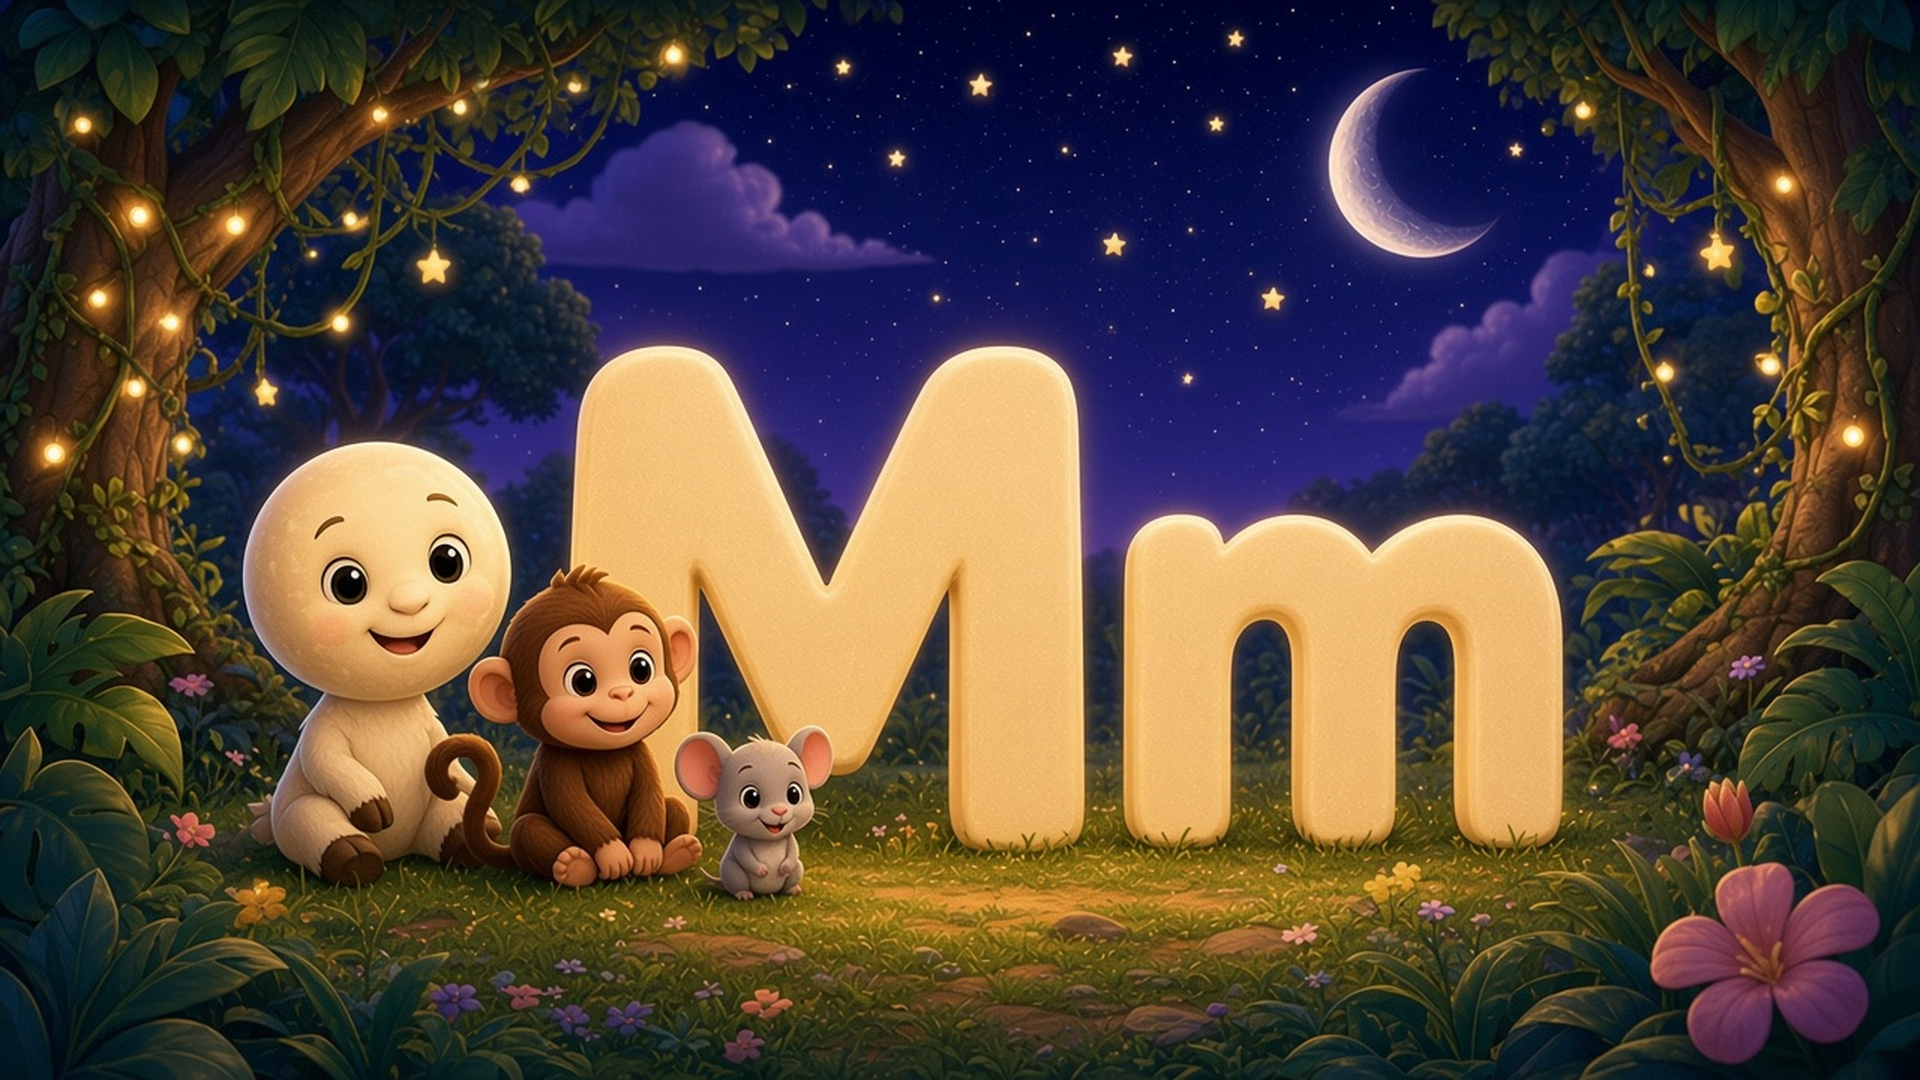
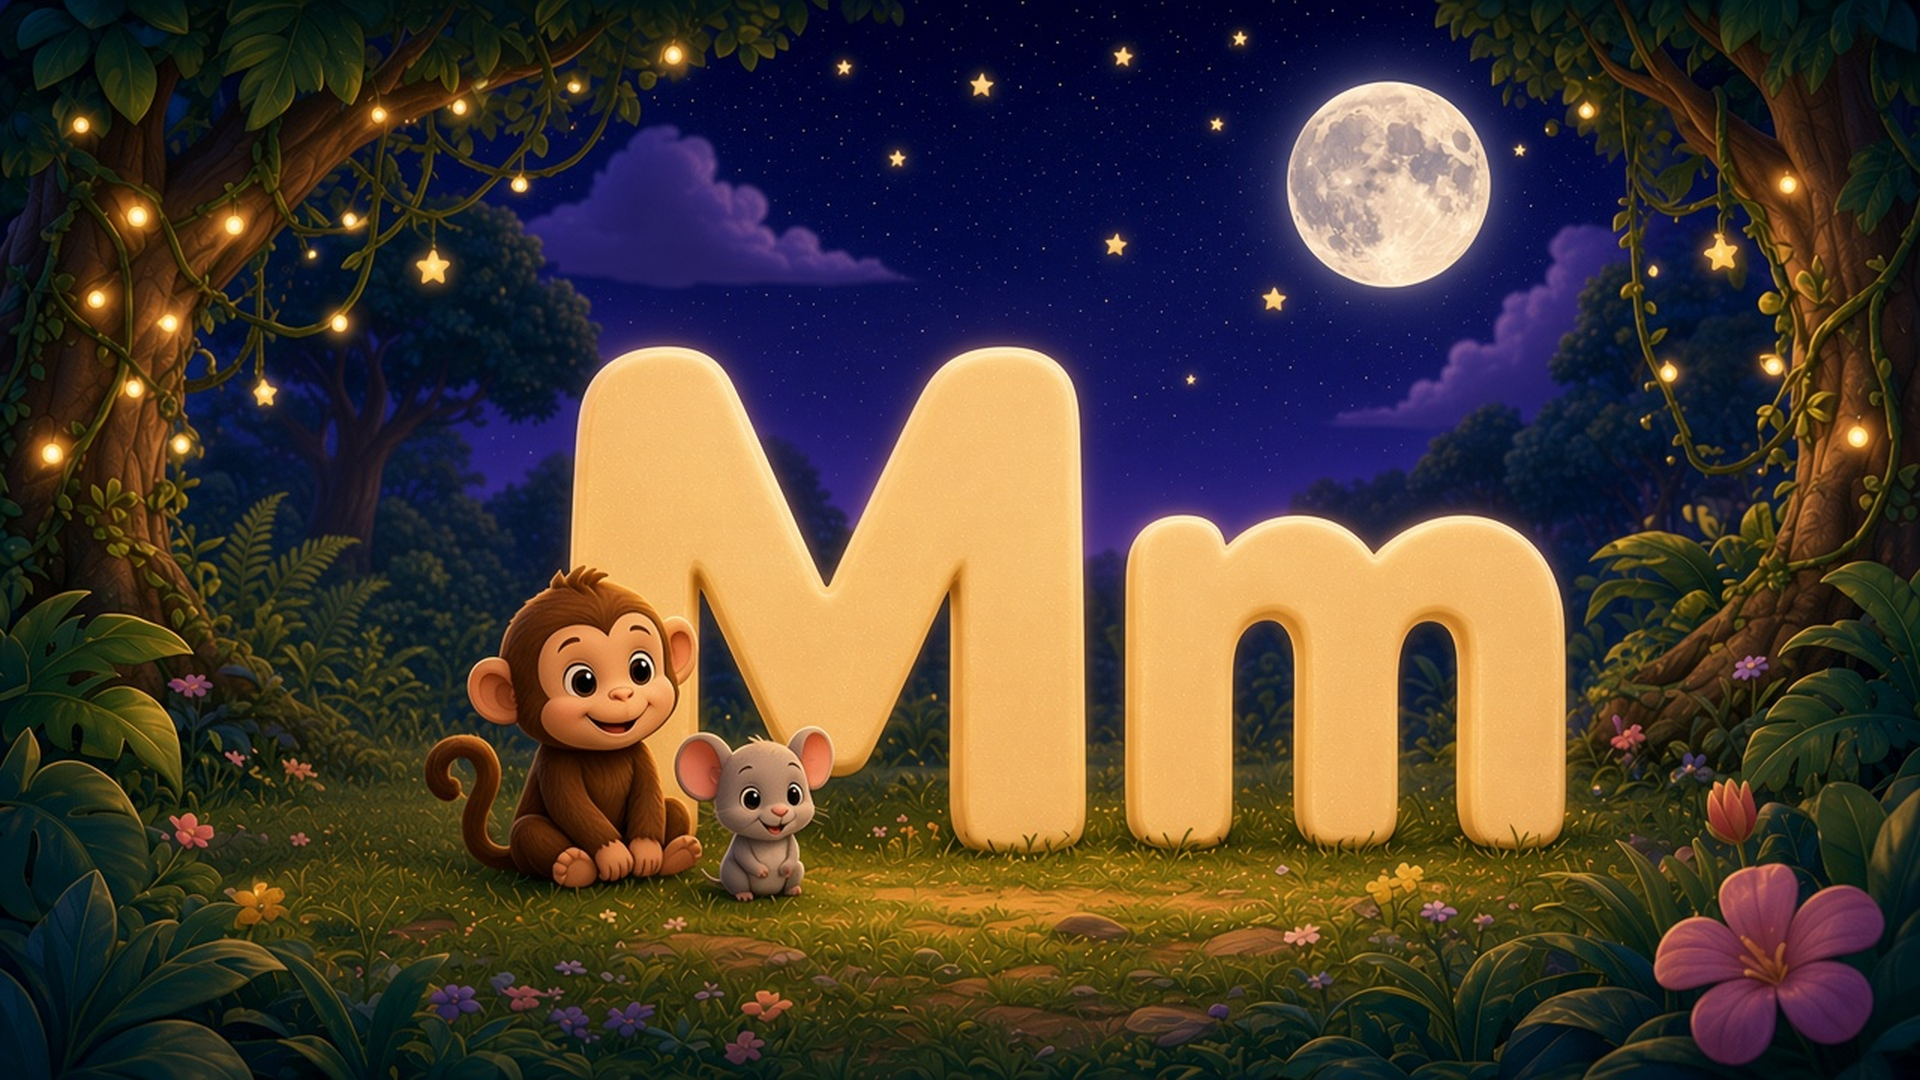
Word button moves below the painting, A/B/C show their real pictures, a real moon for M, simpler counting, and Q is Queen and Quilt.

diff --git a/index.html b/index.html
@@ -227,6 +227,8 @@ body{background:#12102a;color:#f7f3e8}
   background:radial-gradient(circle at 40% 32%, rgba(70,58,150,.94), rgba(22,16,56,.94) 74%);
   color:#fff6d8;box-shadow:0 5px 0 rgba(0,0,0,.28),0 10px 18px rgba(0,0,0,.28);
   display:flex;align-items:center;justify-content:center;cursor:pointer;touch-action:manipulation}
+.letter-feature{overflow:hidden}
+.letter-feature img{width:100%;height:100%;object-fit:cover;border-radius:50%;display:block;pointer-events:none}
 .letter-feature span{font-size:clamp(3rem,11vmin,5.2rem);line-height:1;
   filter:drop-shadow(0 4px 8px rgba(0,0,0,.35));pointer-events:none}
 #letters.has-scene .letter-feature{display:flex}
@@ -245,8 +247,8 @@ body{background:#12102a;color:#f7f3e8}
 .rim-prev{left:6.2%;top:90%;width:8%;aspect-ratio:1;transform:translate(-50%,-50%);min-width:64px;min-height:64px}
 .rim-next{left:93.8%;top:90%;width:8%;aspect-ratio:1;transform:translate(-50%,-50%);min-width:64px;min-height:64px}
 .rim-btn:active{filter:brightness(1.08)}
-/* Word chip sits on the painted grass, bottom center, below the big letters. */
-.word-chip{position:absolute;left:calc(var(--cx,.5) * 100%);top:84%;transform:translate(-50%,-50%);z-index:6;min-width:14%;max-width:40%;
+/* Word chip lives in the frame's bottom chrome, centered between the rim arrows, never on the painting's objects. */
+.word-chip{position:absolute;left:50%;top:90%;transform:translate(-50%,-50%);z-index:6;min-width:14%;max-width:38%;overflow:hidden;text-overflow:ellipsis;
   min-height:44px;white-space:nowrap;display:flex;align-items:center;justify-content:center;padding:.4em .9em;
   background:#3a2c86;color:#f7f1e6;font-weight:900;
   font-size:clamp(1.05rem,2.3vw,1.7rem);border:none;border-radius:16px;cursor:pointer;
@@ -262,7 +264,7 @@ body{background:#12102a;color:#f7f3e8}
     left:calc(50% - var(--artw) * var(--cx,.55));top:57%;transform:translateY(-50%);
     -webkit-mask-image:linear-gradient(180deg,transparent 0,#000 9%,#000 91%,transparent 100%);
     mask-image:linear-gradient(180deg,transparent 0,#000 9%,#000 91%,transparent 100%)}
-  #letters .word-chip{top:87%;font-size:1.2rem;padding:.3em .9em;max-width:44%}
+  #letters .word-chip{left:50%;top:calc(100% - env(safe-area-inset-bottom) - 56px);font-size:1.2rem;padding:.3em .9em;max-width:40%;min-height:56px}
   .rim-home,.rim-prev,.rim-next{width:64px;min-width:64px;min-height:64px}
   .rim-home{left:calc(env(safe-area-inset-left) + 44px);top:calc(env(safe-area-inset-top) + 44px)}
   .rim-prev{left:calc(env(safe-area-inset-left) + 44px);top:calc(100% - env(safe-area-inset-bottom) - 56px)}
@@ -308,13 +310,6 @@ body{background:#12102a;color:#f7f3e8}
 .count-sym.dot.a2{background:linear-gradient(145deg,#7dffc0,#10ac84)}
 .count-sym.dot.a3{background:linear-gradient(145deg,#feca57,#ff9f43)}
 .count-sym.dot.a4{background:linear-gradient(145deg,#b48cff,#5f27cd)}
-.theme-bar{display:flex;flex-wrap:wrap;gap:8px;justify-content:center;padding:0 12px 6px;max-width:100%}
-.theme-btn{border:2px solid rgba(255,220,140,.25);border-radius:18px;background:rgba(255,255,255,.1);
-  padding:8px 12px;font-weight:800;font-size:.9rem;cursor:pointer;min-height:48px;color:#f0e8c8;
-  display:inline-flex;align-items:center;gap:6px}
-.theme-btn.active{border-color:#ffe9a0;background:rgba(255,220,140,.22);color:#fff6d0}
-.theme-btn .t-emoji{font-size:1.3rem}
-.theme-label{text-align:center;font-size:.8rem;font-weight:700;color:#b8a8e0;padding-bottom:4px}
 
 /* ---- quiz glass card ---- */
 .content{flex:1;display:flex;flex-direction:column;align-items:center;justify-content:center;
@@ -452,7 +447,7 @@ body{background:#12102a;color:#f7f3e8}
   .activity-tile .title{font-size:.95rem}
   .parent-note{margin-top:2px;padding:6px 10px;font-size:.68rem;max-width:720px}
   .rim-home,.rim-prev,.rim-next{min-width:48px;min-height:48px;width:max(48px,12vh)}
-  .word-chip{font-size:1.05rem;padding:.28em .8em;min-height:44px}
+  .word-chip{font-size:clamp(1.15rem,3.4vh,1.6rem);padding:.28em .9em;min-height:52px}
   .letter-progress{font-size:.75rem;top:2%}
   .card{max-width:920px;padding:10px 14px}
   .quiz-prompt{font-size:1.05rem;margin-bottom:2px}
@@ -467,8 +462,6 @@ body{background:#12102a;color:#f7f3e8}
   .count-row{gap:8px}
   .count-sym{font-size:clamp(1.05rem,7vh,1.7rem)}
   .count-sym.dot{width:clamp(14px,4.6vh,22px);height:clamp(14px,4.6vh,22px)}
-  .theme-bar{flex-wrap:nowrap;overflow-x:auto;justify-content:flex-start;-webkit-overflow-scrolling:touch}
-  .theme-btn{min-height:44px;flex:0 0 auto}
   .level-dot{width:44px;height:44px;min-width:44px;min-height:44px}
   #memory .memory-board{position:relative;left:auto;top:auto;transform:none;
     height:auto;width:calc(100% - 16px);max-width:1200px;flex:1 1 auto;min-height:0}
@@ -535,10 +528,10 @@ body{background:#12102a;color:#f7f3e8}
         </div>
         <div id="letterSceneObjs"></div>
         <button type="button" class="letter-hit" id="letterHit" aria-label="Hear the letter"></button>
-        <button type="button" class="word-chip" id="letterWord">Apple</button>
         <div class="scene-hint" id="letterPicHint">tap a picture · 1 of 3</div>
       </div>
       <button type="button" class="letter-feature" id="letterFeature" aria-label="Apple"><span id="letterFeatureEmoji">🍎</span></button>
+      <button type="button" class="word-chip" id="letterWord">Apple</button>
       <div class="letter-progress" id="letterProgress">Aa · 1 of 26</div>
       <button type="button" class="rim-btn rim-home" data-go="home" aria-label="Home">
         <svg viewBox="0 0 64 64" aria-hidden="true"><path fill="#f4ead0" d="M32 6 8 28h8v28h12V38h8v18h12V28h8z"/></svg>
@@ -598,11 +591,8 @@ body{background:#12102a;color:#f7f3e8}
         <div class="num-board" id="numDots" aria-label="counting symbols"></div>
       </div>
     </div>
-    <div class="theme-label" id="themeLabel">Count with: Dots</div>
-    <div class="theme-bar" id="themeBar" role="group" aria-label="Counting theme"></div>
     <div class="dock">
       <button class="btn btn-nav" id="numPrev" aria-label="Previous">◀</button>
-      <button class="btn btn-cycle" id="themeCycle" aria-label="Next theme">🔄 Theme</button>
       <button class="btn btn-nav" id="numNext" aria-label="Next">▶</button>
     </div>
   </section>
@@ -741,7 +731,7 @@ var LETTERS = [
   {c:'N',pics:[{w:'Nest',e:'🐦'},{w:'Nose',e:'👃'},{w:'Notebook',e:'📓'}]},
   {c:'O',pics:[{w:'Octopus',e:'🐙'},{w:'Orange',e:'🍊'},{w:'Owl',e:'🦉'}]},
   {c:'P',pics:[{w:'Pig',e:'🐷'},{w:'Penguin',e:'🐧'},{w:'Pizza',e:'🍕'}]},
-  {c:'Q',pics:[{w:'Queen',e:'👑'},{w:'Quilt',e:'🛏'},{w:'Question',e:'❓'}]},
+  {c:'Q',pics:[{w:'Queen',e:'👑'},{w:'Quilt',e:'🛏'}]},
   {c:'R',pics:[{w:'Rainbow',e:'🌈'},{w:'Rabbit',e:'🐰'},{w:'Robot',e:'🤖'}]},
   {c:'S',pics:[{w:'Sun',e:'☀'},{w:'Snake',e:'🐍'},{w:'Star',e:'⭐'},{w:'Spider',e:'🕷'}]},
   {c:'T',pics:[{w:'Tree',e:'🌳'},{w:'Tiger',e:'🐯'},{w:'Train',e:'🚂'}]},
@@ -754,16 +744,7 @@ var LETTERS = [
 ];
 
 var COUNT_THEMES = [
-  {id:'dots', name:'Dots', kind:'dot'},
-  {id:'apples', name:'Apples', kind:'emoji', emoji:'🍎'},
-  {id:'dino', name:'Dinosaurs', kind:'emoji', emoji:'🦕'},
-  {id:'spider', name:'Spiders', kind:'emoji', emoji:'🕷'},
-  {id:'stars', name:'Stars', kind:'emoji', emoji:'⭐'},
-  {id:'cars', name:'Cars', kind:'emoji', emoji:'🚗'},
-  {id:'balls', name:'Balls', kind:'emoji', emoji:'⚽'},
-  {id:'hearts', name:'Hearts', kind:'emoji', emoji:'❤'},
-  {id:'rockets', name:'Rockets', kind:'emoji', emoji:'🚀'},
-  {id:'dashes', name:'Dashes', kind:'dash'}
+  {id:'dots', name:'Dots', kind:'dot'}
 ];
 
 
@@ -925,7 +906,7 @@ var LETTER_META = {
   N:{ipa:'/ɛn/ /n/', prefer:['Nest','Nose','Notebook']},
   O:{ipa:'/oʊ/ /ɑ/', prefer:['Octopus']},
   P:{ipa:'/piː/ /p/', prefer:['Pig','Penguin','Pizza']},
-  Q:{ipa:'/kjuː/ /kw/', prefer:['Queen','Quilt','Question']},
+  Q:{ipa:'/kjuː/ /kw/', prefer:['Queen','Quilt']},
   R:{ipa:'/ɑɹ/ /ɹ/', prefer:['Rainbow','Rabbit','Robot']},
   S:{ipa:'/ɛs/ /s/', prefer:['Sun','Snake','Star','Spider']},
   T:{ipa:'/tiː/ /t/', prefer:['Tree','Tiger','Train']},
@@ -1021,6 +1002,8 @@ function currentPic(){
   var L = LETTERS[li];
   return L.pics[picIdx % L.pics.length];
 }
+/* Painted word pictures for the left gold circle. Only A, B, C so far; everything else keeps its emoji. */
+var WORD_PICS = {Apple:'apple.png',Ant:'ant.png',Airplane:'airplane.png',Ball:'ball.png',Bear:'bear.png',Bus:'bus.png',Cat:'cat.png',Car:'car.png',Cookie:'cookie.png'};
 function renderLetter(){
   var L = LETTERS[li];
   if(picIdx >= L.pics.length) picIdx = 0;
@@ -1032,7 +1015,17 @@ function renderLetter(){
   document.getElementById('letterPicHint').textContent = 'tap a picture · '+(picIdx+1)+' of '+L.pics.length;
   var feat = document.getElementById('letterFeature');
   var featE = document.getElementById('letterFeatureEmoji');
-  if(featE) featE.textContent = P.e || '';
+  var featImg = document.getElementById('letterFeatureImg');
+  var wordPic = WORD_PICS[P.w];
+  if(wordPic){
+    if(!featImg){ featImg = document.createElement('img'); featImg.id = 'letterFeatureImg'; featImg.alt = ''; featImg.setAttribute('aria-hidden','true'); feat.appendChild(featImg); }
+    featImg.src = 'art/words/' + wordPic;
+    featImg.style.display = 'block';
+    if(featE){ featE.textContent = ''; featE.style.display = 'none'; }
+  } else {
+    if(featImg) featImg.style.display = 'none';
+    if(featE){ featE.textContent = P.e || ''; featE.style.display = ''; }
+  }
   if(feat) feat.setAttribute('aria-label', P.w);
   document.getElementById('letterProgress').textContent = up+lo+'  ·  '+(li+1)+' of 26';
   var board = document.getElementById('letters');
@@ -1165,19 +1158,6 @@ document.getElementById('flSpeak').addEventListener('click', function(){ repeatL
 
 /* ========== NUMBERS ========== */
 var ni = 0, themeIdx = 0;
-function buildThemeBar(){
-  var bar = document.getElementById('themeBar');
-  bar.innerHTML = '';
-  COUNT_THEMES.forEach(function(t, idx){
-    var b = document.createElement('button');
-    b.className = 'theme-btn' + (idx === themeIdx ? ' active' : '');
-    b.type = 'button';
-    var preview = t.kind === 'emoji' ? t.emoji : (t.kind === 'dash' ? '—' : '●');
-    b.innerHTML = '<span class="t-emoji">'+preview+'</span>'+t.name;
-    b.addEventListener('click', function(){ themeIdx = idx; renderNumber(); });
-    bar.appendChild(b);
-  });
-}
 function makeSym(theme, colorIdx){
   var d = document.createElement('span');
   if(theme.kind === 'emoji'){ d.className = 'count-sym'; d.textContent = theme.emoji; }
@@ -1190,7 +1170,6 @@ function renderNumber(doSpeak, cue){
   var theme = COUNT_THEMES[themeIdx];
   document.getElementById('numChar').textContent = String(n);
   document.getElementById('numProgress').textContent = n + ' of 20';
-  document.getElementById('themeLabel').textContent = 'Count with: ' + theme.name;
   var box = document.getElementById('numDots');
   box.innerHTML = '';
   var groups = document.createElement('div');
@@ -1208,9 +1187,6 @@ function renderNumber(doSpeak, cue){
     groups.appendChild(row);
   }
   box.appendChild(groups);
-  document.querySelectorAll('#themeBar .theme-btn').forEach(function(b, idx){
-    b.classList.toggle('active', idx === themeIdx);
-  });
   if(doSpeak){
     var line = String(n);
     if(cue) speakParts([cue, line], [line]);
@@ -1219,11 +1195,7 @@ function renderNumber(doSpeak, cue){
 }
 document.getElementById('numPrev').addEventListener('click', function(){ ni = (ni-1+20)%20; renderNumber(true); });
 document.getElementById('numNext').addEventListener('click', function(){ ni = (ni+1)%20; renderNumber(true); });
-document.getElementById('themeCycle').addEventListener('click', function(){
-  themeIdx = (themeIdx+1)%COUNT_THEMES.length; renderNumber(false);
-});
 document.getElementById('numSpeak').addEventListener('click', function(){ repeatLastUtterance(); });
-buildThemeBar();
 
 /* ========== FIND NUMBER ========== */
 var fnAnswer = 11, fnStreak = 0, fnLocked = false;
